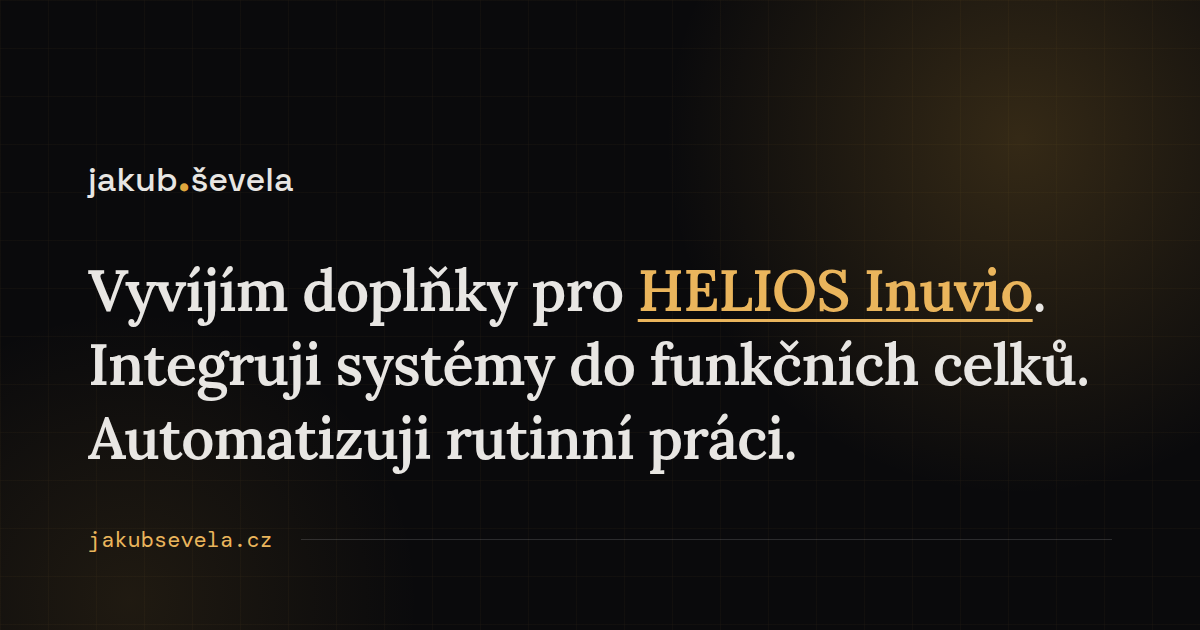
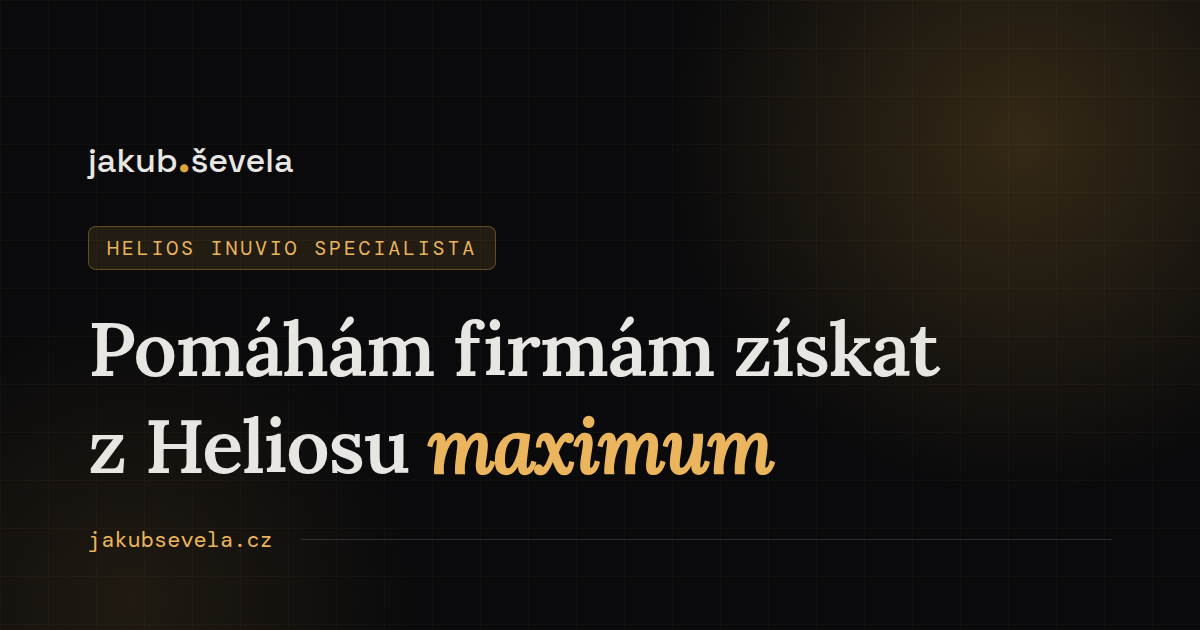
Hero z /nahled/ na živý web, vyřešená šířka layoutu
Hero má text a fotku z obsahové varianty v9. Tři věty původního hero
(„Vyvíjím doplňky pro HELIOS Inuvio…") nahrazeny — zbytek webu zůstává
na původních textech. Meta description, og:description i og-image
sjednoceny s novým headlinem, jinak by sdílený náhled říkal něco jiného
než stránka.

Portrét vytažen z base64 data URI v /nahled/ do images/ (158 KB).

Šířka: obsah zůstává v kontejneru, ale zvednutém 1120 → 1200 px. Hero je
jediná sekce od kraje ke kraji, protože fotka v kontejneru vypadá nalepeně.
Text v hero drží stejný .wrap jako zbytek, takže levá hrana lícuje.

Levá hrana fotky se váže na konec textového sloupce, ne na procento
viewportu — max(46%, calc(50% - 60px)). Na 2560px by jinak fotka podjela
text. Na mobilu je fotka pozadím celé sekce a hero je vyšší (96svh),
aby text začínal až pod obličejem.

Přejmenování iNuvio → Inuvio z předchozího commitu zachováno i v nových
textech.

Changed region(s): [[0.0617, 0.3317, 0.8942, 0.6333], [0.0617, 0.6635, 0.6783, 0.754], [0.0617, 0.2413, 0.2467, 0.3016]]

diff --git a/index.html b/index.html
@@ -6,7 +6,7 @@
 <meta http-equiv="X-UA-Compatible" content="IE=edge">
 
 <title>Jakub Ševela - Specialista HELIOS Inuvio</title>
-<meta name="description" content="Vyvíjím doplňky pro HELIOS Inuvio. Integruji systémy do funkčních celků. Automatizuji rutinní práci.">
+<meta name="description" content="Pomáhám firmám získat z Heliosu maximum. Specializuji se na vývoj doplňků a rozšíření Heliosu — zjednodušení práce, automatizace rutinních úkolů a integrace systémů.">
 <meta name="keywords" content="Inuvio, HELIOS Orange, programátor HELIOS, HELIOS e-shop, HELIOS integrace, HELIOS Comgate, konzultant HELIOS, řešení HELIOS, vývoj HELIOS, rozšíření HELIOS, HELIOS partner, HELIOS Upgates, Upgates">
 <meta name="author" content="Jakub Ševela">
 <link rel="canonical" href="https://jakubsevela.cz/">
@@ -16,7 +16,7 @@
 <meta property="og:locale" content="cs_CZ">
 <meta property="og:url" content="https://jakubsevela.cz/">
 <meta property="og:title" content="Jakub Ševela - Specialista HELIOS Inuvio">
-<meta property="og:description" content="Vyvíjím doplňky pro HELIOS Inuvio. Integruji systémy do funkčních celků. Automatizuji rutinní práci.">
+<meta property="og:description" content="Pomáhám firmám získat z Heliosu maximum. Specializuji se na vývoj doplňků a rozšíření Heliosu — zjednodušení práce, automatizace rutinních úkolů a integrace systémů.">
 <meta property="og:image" content="https://jakubsevela.cz/og-image.png">
 <meta property="og:image:width" content="1200">
 <meta property="og:image:height" content="630">
@@ -58,7 +58,10 @@ a { color: inherit; }
 .text-link { color: var(--accent-l); text-decoration: underline; text-underline-offset: 3px; text-decoration-thickness: 1px; }
 .text-link:hover { text-decoration-thickness: 2px; }
 
-.wrap { max-width: 1120px; margin: 0 auto; padding: 0 32px; }
+/* Obsahový kontejner je záměrně omezený — řádek textu přes celou šířku
+   2560px monitoru se nedá číst. Hero jde od kraje ke kraji, protože fotka
+   uvnitř kontejneru by vypadala nalepeně — text v něm ale drží stejný .wrap. */
+.wrap { max-width: 1200px; margin: 0 auto; padding: 0 32px; }
 
 /* ---------- wordmark ---------- */
 .wordmark {
@@ -104,26 +107,61 @@ nav.site .wordmark { font-size: 1.22rem; }
 .btn-row { display: flex; gap: 0.75rem; flex-wrap: wrap; align-items: center; }
 
 /* ---------- hero ---------- */
+/* Jediná sekce, která jde od kraje ke kraji — fotka v kontejneru
+   by vypadala jako obrázek nalepený do stránky. Text uvnitř ale drží
+   stejný .wrap jako zbytek webu, aby levá hrana lícovala. */
 header.hero {
-  padding: 190px 0 120px;
-  border-bottom: 1px solid var(--border);
   position: relative; overflow: hidden;
+  min-height: 84vh;
+  display: flex; align-items: flex-end;
+  padding: 170px 0 96px;
+  border-bottom: 1px solid var(--border);
+}
+/* Levá hrana fotky se drží konce textového sloupce, ne procenta viewportu.
+   Jinak by na širokém monitoru fotka podjela text. */
+.hero-photo { position: absolute; top: 0; right: 0; bottom: 0; left: max(46%, calc(50% - 60px)); }
+.hero-photo img {
+  width: 100%; height: 100%;
+  object-fit: cover; object-position: center 18%;
+  filter: brightness(0.82) saturate(0.95);
+}
+.hero-photo::after {
+  content: ''; position: absolute; inset: 0;
+  background:
+    linear-gradient(to right, var(--bg) 0%, rgba(10,10,12,0.72) 26%, rgba(10,10,12,0) 64%),
+    linear-gradient(to top, var(--bg) 0%, rgba(10,10,12,0.30) 16%, rgba(10,10,12,0) 40%),
+    linear-gradient(to bottom, rgba(10,10,12,0.75) 0%, rgba(10,10,12,0) 16%);
 }
 header.hero::before {
-  content: ''; position: absolute; top: -220px; right: -180px;
-  width: 640px; height: 640px; border-radius: 50%;
+  content: ''; position: absolute; top: -260px; left: -200px;
+  width: 680px; height: 680px;
   background: radial-gradient(circle, rgba(var(--accent-rgb),0.10) 0%, rgba(var(--accent-rgb),0) 68%);
   pointer-events: none;
 }
 header.hero .wrap { position: relative; z-index: 1; }
-header.hero h1 {
-  font-size: clamp(2.1rem, 5.2vw, 3.5rem);
-  line-height: 1.22;
-  max-width: 20ch;
+.hero-label {
+  display: inline-block;
+  font-family: var(--font-mono);
+  font-size: 0.74rem; letter-spacing: 0.14em; text-transform: uppercase;
+  color: var(--accent-l);
+  padding: 0.34rem 0.9rem;
+  border: 1px solid var(--accent-border);
+  background: var(--accent-tint);
+  border-radius: var(--radius-btn);
+  margin-bottom: 1.6rem;
 }
-header.hero h1 .line { display: block; }
-header.hero h1 .line + .line { margin-top: 0.4em; }
-header.hero h1 .hl { color: var(--accent-l); text-decoration: underline; text-underline-offset: 6px; text-decoration-thickness: 2px; }
+header.hero h1 {
+  font-size: clamp(2.2rem, 4.7vw, 3.6rem);
+  line-height: 1.18;
+  max-width: 15ch;
+}
+header.hero h1 em { font-style: italic; color: var(--accent-l); }
+.hero-desc {
+  color: var(--text-2);
+  font-size: 1.05rem;
+  max-width: 52ch;
+  margin: 1.5rem 0 2.3rem;
+}
 
 /* ---------- sections ---------- */
 section { padding: 96px 0; border-bottom: 1px solid var(--border); }
@@ -238,7 +276,18 @@ footer .wordmark { font-size: 1.1rem; opacity: 0.85; }
   }
   .nav-links.open { display: flex; }
   .nav-links a { display: block; padding: 12px 0; font-size: 0.85rem; }
-  header.hero { padding: 140px 0 84px; }
+  /* Vyšší hero, aby text začínal až pod obličejem a nepřekrýval ho. */
+  header.hero { padding: 130px 0 64px; min-height: 96vh; min-height: 96svh; }
+  /* Na mobilu je fotka pozadím celé sekce, ne sloupcem vedle textu.
+     Přechod jde zdola nahoru, aby text držel kontrast. */
+  .hero-photo { left: 0; }
+  .hero-photo img { object-position: 47% 6%; }
+  .hero-photo::after {
+    background:
+      linear-gradient(to top, var(--bg) 0%, var(--bg) 26%, rgba(10,10,12,0.88) 46%, rgba(10,10,12,0.55) 68%, rgba(10,10,12,0.2) 100%),
+      linear-gradient(to bottom, rgba(10,10,12,0.8) 0%, rgba(10,10,12,0) 22%);
+  }
+  header.hero h1 { max-width: none; }
   section { padding: 72px 0; }
   .wrap { padding: 0 22px; }
   .card, .list-card { padding: 26px 22px; }
@@ -250,11 +299,11 @@ footer .wordmark { font-size: 1.1rem; opacity: 0.85; }
 }
 </style>
 </head>
-<body id="home">
+<body>
 
 <nav class="site">
   <div class="wrap">
-    <a class="wordmark" href="#home">jakub<span class="dot">.</span>ševela</a>
+    <a class="wordmark" href="#uvod">jakub<span class="dot">.</span>ševela</a>
     <button class="nav-toggle" id="navToggle" aria-label="Menu" aria-expanded="false">☰</button>
     <ul class="nav-links" id="navLinks">
       <li><a href="#reseni">Řešení</a></li>
@@ -265,13 +314,18 @@ footer .wordmark { font-size: 1.1rem; opacity: 0.85; }
   </div>
 </nav>
 
-<header class="hero">
+<header class="hero" id="uvod">
+  <div class="hero-photo">
+    <img src="images/jakub-sevela-hero.jpg" alt="Jakub Ševela" fetchpriority="high" width="2000" height="1333">
+  </div>
   <div class="wrap">
-    <h1>
-      <span class="line">Vyvíjím doplňky pro <span class="hl">HELIOS Inuvio</span>.</span>
-      <span class="line">Integruji systémy do funkčních celků.</span>
-      <span class="line">Automatizuji rutinní práci.</span>
-    </h1>
+    <span class="hero-label">Helios Inuvio specialista</span>
+    <h1>Pomáhám firmám získat z&nbsp;Heliosu <em>maximum</em></h1>
+    <p class="hero-desc">Specializuji se na vývoj doplňků a rozšíření Heliosu s důrazem na zjednodušení práce, automatizaci rutinních úkolů a&nbsp;integraci systémů. Od e-shop konektorů po umělou inteligenci přímo v&nbsp;ERP.</p>
+    <div class="btn-row">
+      <a href="#kontakt" class="btn btn-primary">Nezávazně poptat →</a>
+      <a href="#reseni" class="btn btn-secondary">Hotová řešení</a>
+    </div>
   </div>
 </header>
 

diff --git a/scripts/og-image.html b/scripts/og-image.html
@@ -52,23 +52,31 @@
     font-weight: 500;
     font-size: 34px;
     text-transform: lowercase;
-    margin-bottom: 52px;
+    margin-bottom: 44px;
   }
   .wordmark .dot { color: var(--accent); font-weight: 700; font-size: 1.25em; line-height: 1; }
 
   h1 {
     font-family: var(--font-display);
     font-weight: 600;
-    font-size: 58px;
+    font-size: 76px;
     line-height: 1.28;
     letter-spacing: -0.015em;
   }
-  h1 .line { display: block; }
-  h1 .hl {
+  h1 em { font-style: italic; color: var(--accent-l); }
+
+  .label {
+    display: inline-block;
+    font-family: var(--font-mono);
+    font-size: 20px;
+    letter-spacing: 0.14em;
+    text-transform: uppercase;
     color: var(--accent-l);
-    text-decoration: underline;
-    text-underline-offset: 8px;
-    text-decoration-thickness: 3px;
+    padding: 8px 18px;
+    border: 1px solid var(--accent-border);
+    background: var(--accent-tint);
+    border-radius: 8px;
+    margin-bottom: 30px;
   }
 
   .footer-row {
@@ -88,11 +96,8 @@
 
   <div class="container">
     <div class="wordmark">jakub<span class="dot">.</span>ševela</div>
-    <h1>
-      <span class="line">Vyvíjím doplňky pro <span class="hl">HELIOS Inuvio</span>.</span>
-      <span class="line">Integruji systémy do funkčních celků.</span>
-      <span class="line">Automatizuji rutinní práci.</span>
-    </h1>
+    <div class="label">Helios Inuvio specialista</div>
+    <h1>Pomáhám firmám získat<br>z Heliosu <em>maximum</em></h1>
   </div>
 
   <div class="footer-row">
